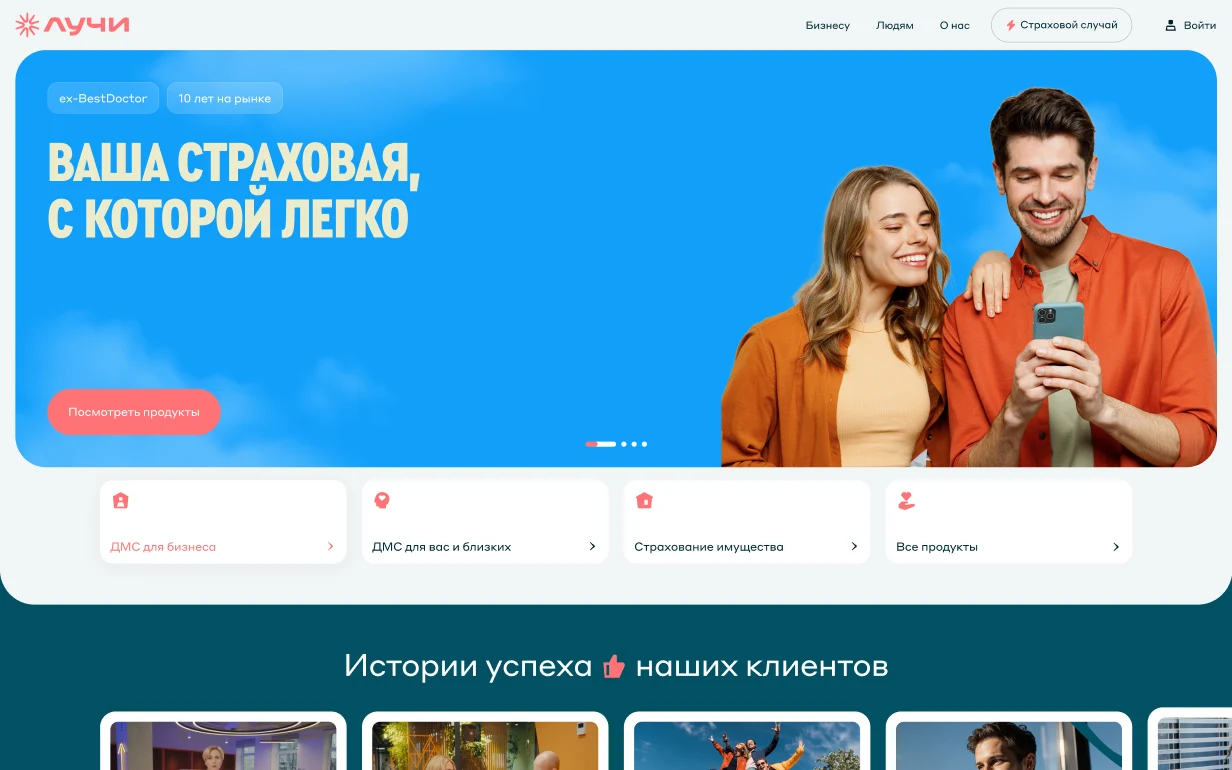
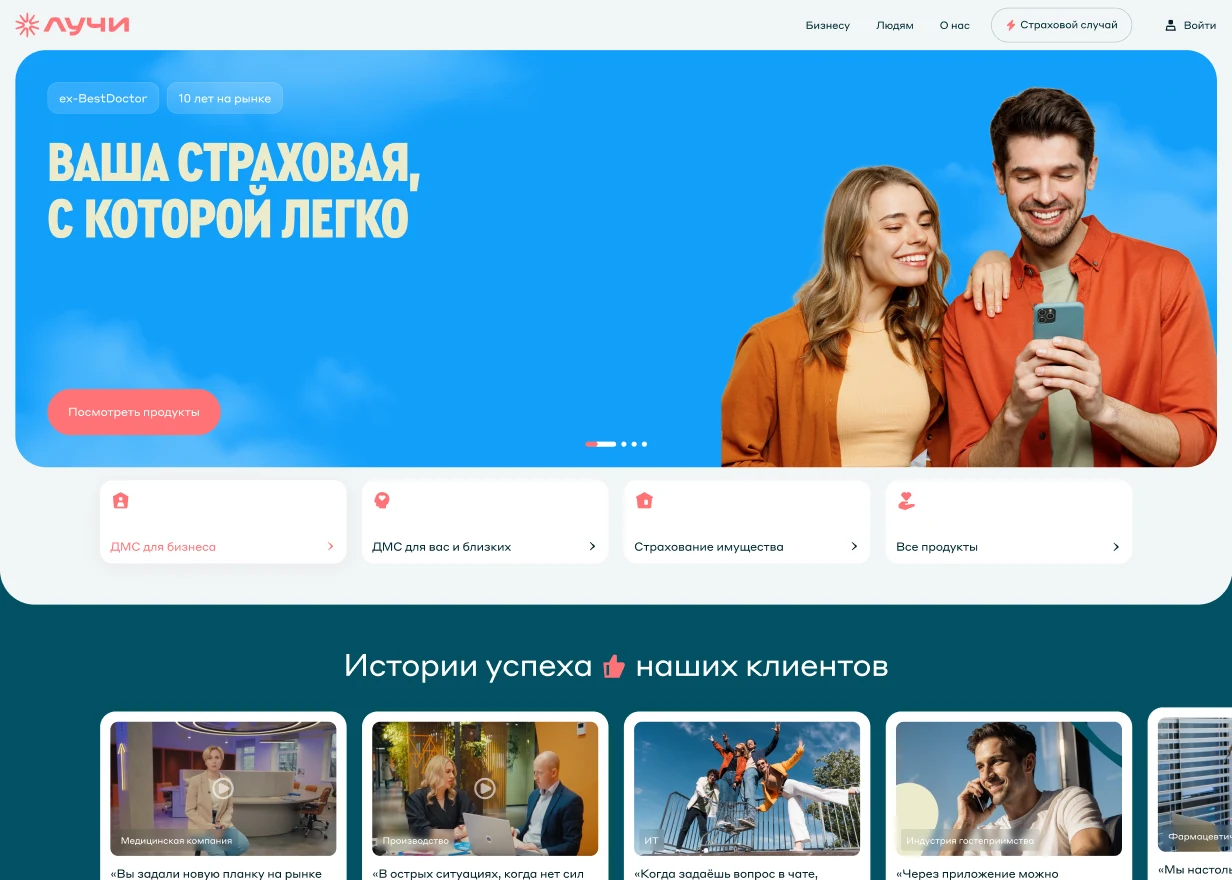
Лучи, задача 02: заголовок «Что сделала: 5 шагов» с навигацией по шагам; экран было/стало на всю карточку в рамке браузера, фрагменты 7:5
Claude-Session: https://claude.ai/code/session_01Uts8h1CnBzygqHwWGvRqDm

diff --git a/luchi-case.html b/luchi-case.html
@@ -8,7 +8,7 @@
   <link rel="preload" href="assets/fonts/onest-cyrillic.woff2" as="font" type="font/woff2" crossorigin>
   <link rel="stylesheet" href="css/v2.css?v=77">
   <link rel="stylesheet" href="css/case.css?v=73">
-  <link rel="stylesheet" href="css/luchi.css?v=28">
+  <link rel="stylesheet" href="css/luchi.css?v=30">
 </head>
 <body class="theme-lu">
 <div class="wrap">
@@ -165,15 +165,24 @@
         <div class="lu-kpi"><b>1<small>клик</small></b><span>до&nbsp;ДМС для&nbsp;бизнеса с&nbsp;первого экрана</span></div>
         <div class="lu-kpi"><b>11→8</b><span>блоков: убрала декоративные блоки и&nbsp;дубли</span></div>
       </div>
+    </div>
 
-      <div class="lu-ch">
+    <!-- шаги редизайна главной -->
+    <div class="lu-block lu-steps">
+      <div class="lu-steps-h">
+        <h3 class="lu-sub">Что сделала: 5&nbsp;шагов</h3>
+        <p>Тяните ползунок на&nbsp;экране, чтобы сравнить было и&nbsp;стало</p>
+        <nav class="lu-snav" aria-label="Шаги редизайна"><a href="#m1"><b>01</b>Хиро</a><a href="#m2"><b>02</b>Продукты</a><a href="#m3"><b>03</b>Блок для&nbsp;бизнеса</a><a href="#m4"><b>04</b>Отзывы</a><a href="#m5"><b>05</b>Новости</a></nav>
+      </div>
+
+      <div class="lu-ch" id="m1">
         <div class="lu-ch-copy">
           <h4 class="mode-title"><span class="mode-n">01</span>Сократила хиро-баннер</h4>
           <p class="lu-why"><span>Зачем</span>Огромная обложка занимала весь первый экран и&nbsp;ничего не&nbsp;давала пользователю.</p>
           <ul><li>Баннер стал компактнее</li><li>На&nbsp;первом экране сразу видны продукты и&nbsp;начало отзывов</li></ul>
         </div>
-        <div class="lu-ch-stage">
-        <figure class="lu-ba lu-ba-was" data-ba style="aspect-ratio:16/10">
+        <div class="lu-ch-stage"><div class="lu-bar" aria-hidden="true"><i></i><i></i><i></i></div>
+        <figure class="lu-ba lu-ba-was" data-ba>
           <div class="layer after"><img src="assets/img/luchi/main/new-fs.webp" alt="Первый экран новой главной: компактный баннер, продукты и начало отзывов" loading="lazy" decoding="async"></div>
           <div class="layer before"><img src="assets/img/luchi/main/old-fs.webp" alt="Первый экран старой главной: обложка на весь экран" loading="lazy" decoding="async"></div>
           <span class="line"><span class="knob"><svg width="20" height="20" viewBox="0 0 24 24" fill="none" stroke="currentColor" stroke-width="2.2" stroke-linecap="round" stroke-linejoin="round" aria-hidden="true"><path d="M9 6l-6 6 6 6M15 6l6 6-6 6"/></svg></span></span>
@@ -183,14 +192,14 @@
         </div>
       </div>
 
-      <div class="lu-ch">
+      <div class="lu-ch" id="m2">
         <div class="lu-ch-copy">
           <h4 class="mode-title"><span class="mode-n">02</span>Вынесла главные продукты под&nbsp;баннер</h4>
           <p class="lu-why"><span>Зачем</span>ДМС для&nbsp;бизнеса&nbsp;— главный продукт, его должны найти сразу, без&nbsp;похода в&nbsp;каталог.</p>
           <ul><li>Было: табы и&nbsp;карусель, бизнес&nbsp;— в&nbsp;4‑м табе</li><li>Стало: 4&nbsp;карточки под&nbsp;баннером, ДМС для&nbsp;бизнеса первой</li><li>До&nbsp;продукта&nbsp;— 1&nbsp;клик</li></ul>
         </div>
-        <div class="lu-ch-stage">
-        <figure class="lu-ba lu-ba-was" data-ba style="aspect-ratio:2/1">
+        <div class="lu-ch-stage"><div class="lu-bar" aria-hidden="true"><i></i><i></i><i></i></div>
+        <figure class="lu-ba lu-ba-was" data-ba>
           <div class="layer after"><img src="assets/img/luchi/main/new-cards.webp" alt="Карточки продуктов под баннером, ДМС для бизнеса первой" loading="lazy" decoding="async"></div>
           <div class="layer before"><img src="assets/img/luchi/main/old-path.webp" alt="Старый блок «Наши решения»: табы и карусель" loading="lazy" decoding="async"></div>
           <span class="line"><span class="knob"><svg width="20" height="20" viewBox="0 0 24 24" fill="none" stroke="currentColor" stroke-width="2.2" stroke-linecap="round" stroke-linejoin="round" aria-hidden="true"><path d="M9 6l-6 6 6 6M15 6l6 6-6 6"/></svg></span></span>
@@ -200,36 +209,36 @@
         </div>
       </div>
 
-      <div class="lu-ch">
+      <div class="lu-ch" id="m3">
         <div class="lu-ch-copy">
           <h4 class="mode-title"><span class="mode-n">03</span>Добавила отдельный блок для&nbsp;бизнеса</h4>
           <p class="lu-why"><span>Зачем</span>HR, который пролистал ниже, снова видит свой продукт и&nbsp;понятный следующий шаг.</p>
           <ul><li>Условие «от&nbsp;2&nbsp;сотрудников» сразу на&nbsp;карточке</li><li>«Рассчитать тариф» вместо «Подробнее»</li></ul>
         </div>
-        <div class="lu-ch-stage">
+        <div class="lu-ch-stage"><div class="lu-bar" aria-hidden="true"><i></i><i></i><i></i></div>
         <figure class="lu-one"><img src="assets/img/luchi/main/new-biz.webp" alt="Блок «Решение ваших бизнес-задач»: ДМС для бизнеса и Платформа здоровья" loading="lazy" decoding="async"><span class="lab">Новый блок</span></figure>
         </div>
       </div>
 
-      <div class="lu-ch">
+      <div class="lu-ch" id="m4">
         <div class="lu-ch-copy">
           <h4 class="mode-title"><span class="mode-n">04</span>Добавила отзывы компаний</h4>
           <p class="lu-why"><span>Зачем</span>HR должны видеть, что&nbsp;с&nbsp;нами работают известные компании и&nbsp;они довольны.</p>
           <ul><li>Истории с&nbsp;именем, должностью и&nbsp;видео</li><li>Стоят сразу после первого экрана</li></ul>
         </div>
-        <div class="lu-ch-stage">
+        <div class="lu-ch-stage"><div class="lu-bar" aria-hidden="true"><i></i><i></i><i></i></div>
         <figure class="lu-one"><img src="assets/img/luchi/main/new-rev.webp" alt="Блок «Истории успеха наших клиентов»" loading="lazy" decoding="async"><span class="lab">Новый блок</span></figure>
         </div>
       </div>
 
-      <div class="lu-ch">
+      <div class="lu-ch" id="m5">
         <div class="lu-ch-copy">
           <h4 class="mode-title"><span class="mode-n">05</span>Заменила статьи новостями о&nbsp;компании</h4>
           <p class="lu-why"><span>Зачем</span>Показываем, что&nbsp;Лучи развиваются и&nbsp;активны, а&nbsp;не&nbsp;только говорят, что&nbsp;с&nbsp;ними работают.</p>
           <ul><li>Партнёрства с&nbsp;Т‑Банком и&nbsp;«Точкой», публикации в&nbsp;Forbes</li><li>Переключатель ведёт в&nbsp;блог</li></ul>
         </div>
-        <div class="lu-ch-stage">
-        <figure class="lu-ba lu-ba-was" data-ba style="aspect-ratio:2.1/1">
+        <div class="lu-ch-stage"><div class="lu-bar" aria-hidden="true"><i></i><i></i><i></i></div>
+        <figure class="lu-ba lu-ba-was" data-ba>
           <div class="layer after"><img src="assets/img/luchi/main/new-news.webp" alt="Новый блок: новости о компании из СМИ" loading="lazy" decoding="async"></div>
           <div class="layer before"><img src="assets/img/luchi/main/old-blog.webp" alt="Старый блок: статьи про SPF и капли от насморка" loading="lazy" decoding="async"></div>
           <span class="line"><span class="knob"><svg width="20" height="20" viewBox="0 0 24 24" fill="none" stroke="currentColor" stroke-width="2.2" stroke-linecap="round" stroke-linejoin="round" aria-hidden="true"><path d="M9 6l-6 6 6 6M15 6l6 6-6 6"/></svg></span></span>

diff --git a/css/luchi.css b/css/luchi.css
@@ -334,32 +334,51 @@
 .lu-ch-copy ul{list-style:none;margin:0;padding:0;display:flex;flex-direction:column;gap:10px}
 .lu-ch-copy li{position:relative;padding-left:20px;font:400 16px/1.45 var(--font);color:var(--ink-2)}
 .lu-ch-copy li::before{content:"";position:absolute;left:2px;top:.62em;width:7px;height:7px;border-radius:50%;background:var(--lu)}
-.lu-ch-stage{padding:24px;border-radius:var(--r-in);background:var(--chip);display:flex;align-items:center}
-.lu-ch-stage > figure{width:100%;margin:0}
-/* «было» приглушено серым, при перетаскивании видно контраст */
-.lu-ba-was{border-radius:20px;background:#fff;box-shadow:0 1px 2px rgba(15,20,20,.05)}
-.lu-ba-was > .layer img{object-position:top left}
+.lu-ch-stage{position:relative;overflow:hidden;border-radius:var(--r-in);background:#fff;box-shadow:inset 0 0 0 1px #E9EDF0;display:flex;flex-direction:column;justify-content:center;align-self:start}
+/* верхняя полоска браузера — экран сайта выглядит как страница, а не обрезок */
+.lu-bar{flex:none;display:flex;gap:6px;align-items:center;height:36px;padding:0 18px;background:#F4F6F8;border-bottom:1px solid #E9EDF0}
+.lu-bar i{width:10px;height:10px;border-radius:50%;background:#DDE2E6}
+.lu-ch-stage > figure{width:100%;margin:0;aspect-ratio:7/5}
+/* ползунок на всю карточку; «было» приглушено серым */
+.lu-ba-was{border-radius:0;background:#fff}
+.lu-ba-was > .layer img{object-fit:cover;object-position:top left}
 .lu-ba-was > .before img{filter:saturate(.3) brightness(1.03)}
-.lu-ba-was .lab{top:auto;bottom:12px}
-.lu-ba-was .lab.l{left:12px}.lu-ba-was .lab.r{right:12px}
-.lu-one{position:relative;overflow:hidden;border-radius:20px;background:#fff;box-shadow:0 1px 2px rgba(15,20,20,.05)}
-.lu-one img{display:block;width:100%;height:auto}
-.lu-one .lab{position:absolute;right:12px;top:12px;padding:6px 12px;border-radius:999px;font:var(--t-caption);letter-spacing:.06em;text-transform:uppercase;background:var(--lu);color:#fff}
+.lu-ba-was .lab{top:auto;bottom:14px}
+.lu-ba-was .lab.l{left:14px}.lu-ba-was .lab.r{right:14px}
+.lu-one{position:relative;overflow:hidden;background:#fff}
+.lu-one img{display:block;width:100%;height:100%;object-fit:cover;object-position:top left}
+.lu-one .lab{position:absolute;right:14px;bottom:14px;padding:6px 12px;border-radius:999px;font:var(--t-caption);letter-spacing:.06em;text-transform:uppercase;background:var(--lu);color:#fff}
+/* заголовок шагов + навигация чипами */
+.lu-steps{gap:var(--s-3)}
+.lu-steps-h{display:grid;grid-template-columns:auto 1fr;align-items:end;gap:6px var(--s-5);margin:var(--s-5) 0 var(--s-2)}
+.lu-steps-h .lu-sub{font:500 28px/1.15 var(--font);letter-spacing:-.025em}
+.lu-steps-h p{margin:0;justify-self:end;font:400 15px/1.4 var(--font);color:var(--ink-3)}
+.lu-snav{grid-column:1/-1;display:flex;flex-wrap:wrap;gap:8px;margin-top:var(--s-3)}
+.lu-snav a{display:inline-flex;align-items:center;gap:8px;height:40px;padding:0 16px 0 8px;border-radius:999px;background:var(--chip);font:500 15px/1 var(--font);color:var(--ink);transition:background .25s,color .25s}
+.lu-snav a b{display:grid;place-items:center;min-width:26px;height:26px;border-radius:999px;background:#fff;font:500 12px/1 var(--font);color:var(--lu-ink)}
+.lu-snav a:hover{background:var(--lu-soft);color:var(--lu-ink)}
+.lu-ch{scroll-margin-top:72px}
 .lu-also{margin:0;padding:0 4px;font:400 15px/1.5 var(--font);color:var(--ink-3)}
 .lu-also b{font-weight:500;color:var(--ink-2)}
 @media (max-width:1100px) and (min-width:761px){ .lu-ch{grid-template-columns:1fr} }
 @media (max-width:760px){
   .lu-lead{font-size:15px}
   .lu-ch{grid-template-columns:1fr;gap:8px}
-  .lu-ch-stage{order:-1;padding:12px}
+  .lu-ch-stage{order:-1;min-height:0}
+  .lu-bar{height:28px;padding:0 14px}
+  .lu-bar i{width:8px;height:8px}
+  .lu-steps-h{grid-template-columns:1fr;margin-top:var(--s-4)}
+  .lu-steps-h .lu-sub{font-size:22px}
+  .lu-steps-h p{justify-self:start;font-size:14px}
+  .lu-snav{flex-wrap:nowrap;overflow-x:auto;margin:var(--s-2) -20px 0;padding:0 20px;scrollbar-width:none}
+  .lu-snav a{flex:none;height:36px;font-size:14px}
   .lu-ch-copy{padding:20px;gap:var(--s-3)}
   .lu-ch-copy .mode-title{font-size:20px}
   .lu-why{padding:14px 16px;font-size:15px}
   .lu-ch-copy li{font-size:14px}
-  .lu-ba-was,.lu-one{border-radius:14px}
-  .lu-ba-was .lab{top:auto;bottom:8px;padding:5px 10px}
-  .lu-ba-was .lab.l{left:8px}.lu-ba-was .lab.r{right:8px}
-  .lu-one .lab{top:8px;right:8px}
+  .lu-ba-was .lab{bottom:10px;padding:5px 10px}
+  .lu-ba-was .lab.l{left:10px}.lu-ba-was .lab.r{right:10px}
+  .lu-one .lab{bottom:10px;right:10px}
   .lu-kpi b small{font-size:16px;margin-left:4px}
   .lu-also{font-size:14px}
 }
